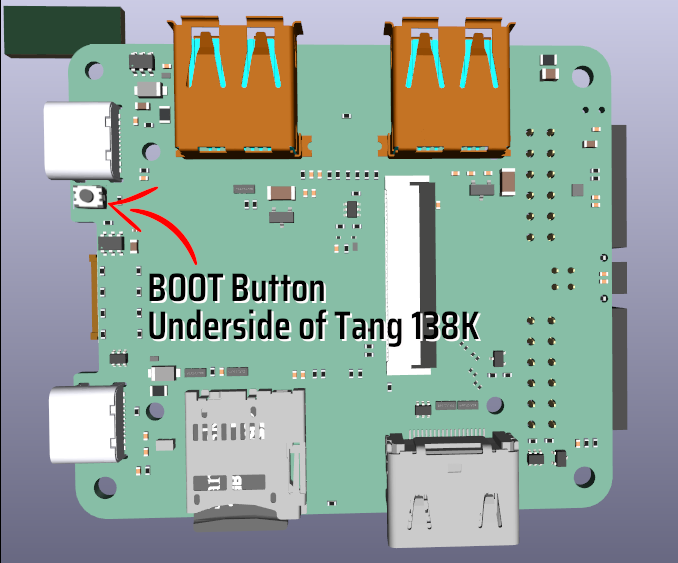
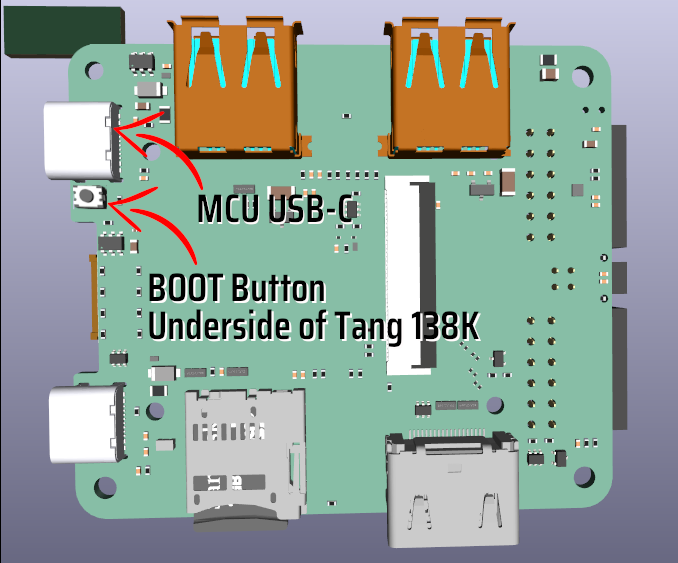
flasher-tango 2026-11-03
The BOOT button picture now also shows the MCU USB-C port and opens in a window on the page.

Changed region(s): [[0.1549, 0.2114, 0.5265, 0.4227], [0.2168, 0.1812, 0.2478, 0.2114]]

diff --git a/index.html b/index.html
@@ -4,7 +4,7 @@
 <head>
   <meta charset="utf-8">
   <meta name="viewport" content="width=device-width, initial-scale=1">
-  <meta http-equiv="Content-Security-Policy" content="default-src 'self'; script-src 'self'; style-src 'self' 'unsafe-inline'; img-src 'self' data:; connect-src 'self' https://api.dl.sipeed.com https://api.github.com https://raw.githubusercontent.com; font-src 'self'; object-src 'none'; base-uri 'none'; form-action 'none'">
+  <meta http-equiv="Content-Security-Policy" content="default-src 'self'; script-src 'self'; style-src 'self' 'unsafe-inline'; img-src 'self'; connect-src 'self' https://api.dl.sipeed.com https://api.github.com https://raw.githubusercontent.com; font-src 'self'; object-src 'none'; base-uri 'none'; form-action 'none'">
   <meta name="referrer" content="no-referrer">
   <meta name="color-scheme" content="light">
   <title>Firmware Installer</title>
@@ -167,6 +167,11 @@
     .log-success { color: #74d9a3; }
     .log-warn { color: #eac26a; }
     .log-error { color: #ff9182; }
+    .image-dialog { padding: 0; border: 0; border-radius: 8px; max-width: calc(100vw - 32px); max-height: calc(100vh - 32px); overflow: auto; background: #fff; box-shadow: 0 12px 40px rgba(0, 0, 0, 0.35); }
+    .image-dialog::backdrop { background: rgba(10, 16, 13, 0.72); }
+    .image-dialog-body { display: flex; flex-direction: column; align-items: center; gap: 12px; padding: 16px; }
+    .image-dialog-body img { display: block; width: min(678px, calc(100vw - 64px), calc((100vh - 124px) * 678 / 563)); height: auto; aspect-ratio: 678 / 563; }
+    .image-dialog-body .button { align-self: flex-end; }
     @media (max-width: 760px) {
       .topbar { padding: 10px 16px; flex-wrap: wrap; }
       .chip-label { display: none; }
@@ -344,6 +349,13 @@
       </section>
     </div>
   </main>
+
+  <dialog id="boot-image-dialog" class="image-dialog" aria-label="Where the BOOT button is">
+    <div class="image-dialog-body">
+      <img id="boot-image" alt="The underside of the board: the BOOT button, next to the MCU USB-C port, is marked with an arrow" width="678" height="563">
+      <button id="boot-image-close" class="button" type="button">Close</button>
+    </div>
+  </dialog>
 
   <script src="protocol.js"></script>
   <script src="targets/common.js"></script>

diff --git a/app.js b/app.js
@@ -58,6 +58,10 @@
     progressValue: document.querySelector("#progress-value"),
     log: document.querySelector("#log"),
     clearLogButton: document.querySelector("#clear-log"),
+    bootImageLink: document.querySelector("#boot-button-image-link"),
+    bootImageDialog: document.querySelector("#boot-image-dialog"),
+    bootImage: document.querySelector("#boot-image"),
+    bootImageClose: document.querySelector("#boot-image-close"),
   };
 
   let port = null;
@@ -674,7 +678,27 @@
     });
   }
 
+  /* The BOOT button picture opens in a modal <dialog>; without dialog support the link opens the file itself.
+     The picture is loaded on the first click only.  Esc (the dialog's own cancel), Close and a click on the
+     backdrop close it; focus returns to the link. */
+  function wireBootImage() {
+    const { bootImageLink: link, bootImageDialog: dialog, bootImage: image, bootImageClose: closeButton } = elements;
+    if (typeof dialog.showModal !== "function") return;
+    link.addEventListener("click", (event) => {
+      event.preventDefault();
+      if (!image.getAttribute("src")) image.setAttribute("src", link.getAttribute("href"));
+      dialog.showModal();
+      closeButton.focus();
+    });
+    closeButton.addEventListener("click", () => dialog.close());
+    dialog.addEventListener("click", (event) => {
+      if (event.target === dialog) dialog.close();
+    });
+    dialog.addEventListener("close", () => link.focus());
+  }
+
   function initialize() {
+    wireBootImage();
     if (!navigator.serial) {
       elements.supportNotice.hidden = false;
       elements.connectButton.disabled = true;

diff --git a/README.md b/README.md
@@ -1,6 +1,6 @@
 # flasher-tango -- the Tango FPGA firmware installer
 
-**Version 2026-11-02** (date code `20261102`)
+**Version 2026-11-03** (date code `20261103`)
 
 flasher-tango is a web page that installs the **Tango FPGA** firmware on the **BL616** microcontroller of the
 **Sipeed Tang Console 138K**. It runs in Chrome or Edge on a desktop or laptop computer and talks to the board over
